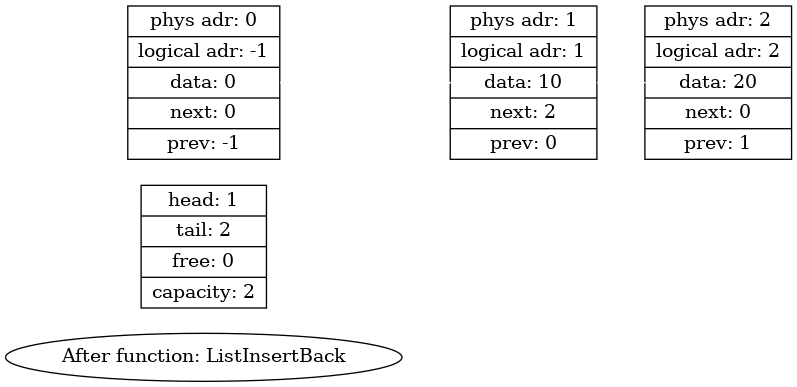
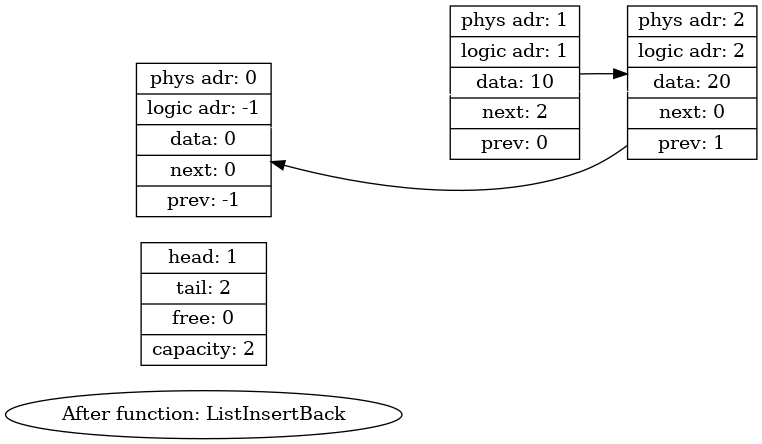
Finaly made graphic dump

Changed region(s): [[0.0, 0.0, 0.5433, 0.9922], [0.4528, 0.0, 0.9961, 0.4341]]

diff --git a/src/ListDump.cpp b/src/ListDump.cpp
@@ -65,7 +65,7 @@ int MakeGraphDumpTxt(List* list, const char* current_function, int dump_cnt)
     for(int i = 0; i <= list->capacity; i++)
     {
         fprintf(dump_fp, "\tNode%d [shape = record, label = "
-                         "\" phys adr: %d | logical adr: %d | data: %d | <next> next: %d | <prev> prev: %d\"];\n",
+                         "\" phys adr: %d | logic adr: %d | data: %d | <next> next: %d | <prev> prev: %d\"];\n",
                 i, i, GetLogicalAddress(list, i), list->elem[i].data, list->elem[i].next, list->elem[i].prev);
     }
 
@@ -78,6 +78,22 @@ int MakeGraphDumpTxt(List* list, const char* current_function, int dump_cnt)
             fprintf(dump_fp, "Node%d", i);
         else
             fprintf(dump_fp, "Node%d -> ", i);
+    }
+
+    fprintf(dump_fp, "\n\t");
+
+    fprintf(dump_fp, "\n\tedge[color=black]\n");
+
+    int i = list->head;
+    while(true)
+    {
+        if(list->elem[i].prev == -1)
+        {
+            fprintf(dump_fp, "Node%d", i);
+            break;
+        }
+        fprintf(dump_fp, "Node%d -> ", i);
+        i = list->elem[i].next;
     }
 
     fprintf(dump_fp, "\n}");
